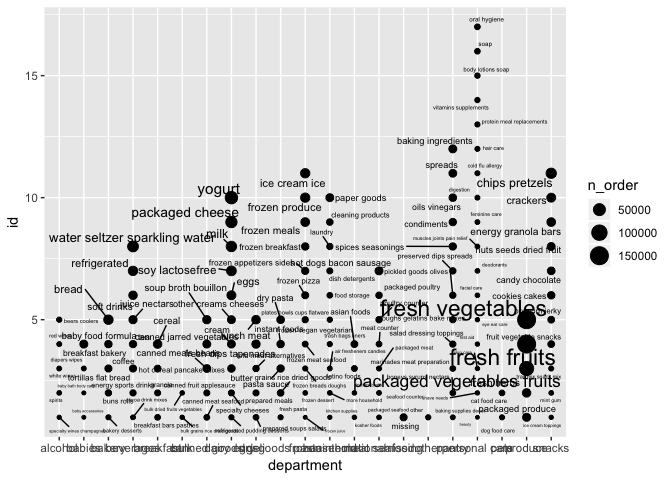
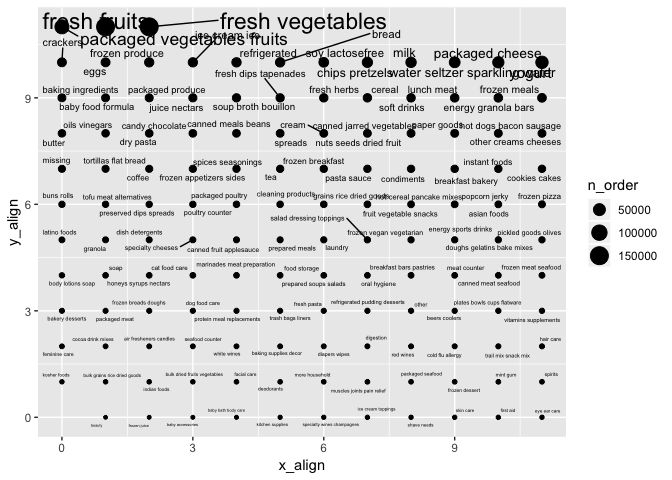
Version 6
1. Finish problem 2

2. Change the bubble plot of question 2 of problem 2.

Changed region(s): [[0.0, 0.0312, 0.8438, 1.0], [0.6875, 0.0312, 0.75, 0.0625]]

diff --git a/p8105_hw3_zf2213.md b/p8105_hw3_zf2213.md
@@ -162,12 +162,11 @@ There are 134 aisles. Fresh vegetables and fresh fruits aisles are ordered the m
 
 ``` r
 instacart %>%
- group_by(aisle, department) %>%
- summarize(n_order = n()) %>%
- group_by(department) %>%
+ group_by(aisle) %>%
+ summarize(n_order = n()) %>% 
  arrange(n_order) %>% 
- mutate(id = 1:n()) %>%
- ggplot(aes(x = department, y = id, size = n_order)) +
+ mutate(x_align = row_number() %% 12, y_align = row_number() %/% 12) %>%
+ ggplot(aes(x = x_align, y = y_align, size = n_order)) +
    geom_point() +
    ggrepel::geom_text_repel(aes(label = aisle))
 ```
@@ -176,7 +175,26 @@ instacart %>%
 
 *Q3. Make a table showing the most popular item aisles “baking ingredients”, “dog food care”, and “packaged vegetables fruits”*
 
+``` r
+instacart %>% filter(aisle %in% c("baking ingredients", "dog food care", "packaged vegetables fruits")) %>% group_by(aisle, product_name) %>% summarize(n_order = n()) %>% group_by(aisle) %>% filter(n_order == max(n_order)) %>% knitr::kable()
+```
+
+| aisle                      | product\_name                                 |  n\_order|
+|:---------------------------|:----------------------------------------------|---------:|
+| baking ingredients         | Light Brown Sugar                             |       499|
+| dog food care              | Snack Sticks Chicken & Rice Recipe Dog Treats |        30|
+| packaged vegetables fruits | Organic Baby Spinach                          |      9784|
+
 *Q4. Make a table showing the mean hour of the day at which Pink Lady Apples and Coffee Ice Cream are ordered on each day of the week; format this table for human readers (i.e. produce a 2 x 7 table).*
+
+``` r
+instacart %>% filter(product_name %in% c("Pink Lady Apples", "Coffee Ice Cream")) %>% group_by(product_name, order_dow) %>% summarize(mean_hour = mean(order_hour_of_day)) %>% spread(key = order_dow, value = mean_hour) %>% knitr::kable()
+```
+
+| product\_name    |         0|         1|         2|         3|         4|         5|         6|
+|:-----------------|---------:|---------:|---------:|---------:|---------:|---------:|---------:|
+| Coffee Ice Cream |  13.77419|  14.31579|  15.38095|  15.31818|  15.21739|  12.26316|  13.83333|
+| Pink Lady Apples |  13.44118|  11.36000|  11.70213|  14.25000|  11.55172|  12.78431|  11.93750|
 
 Problem 3
 ---------
